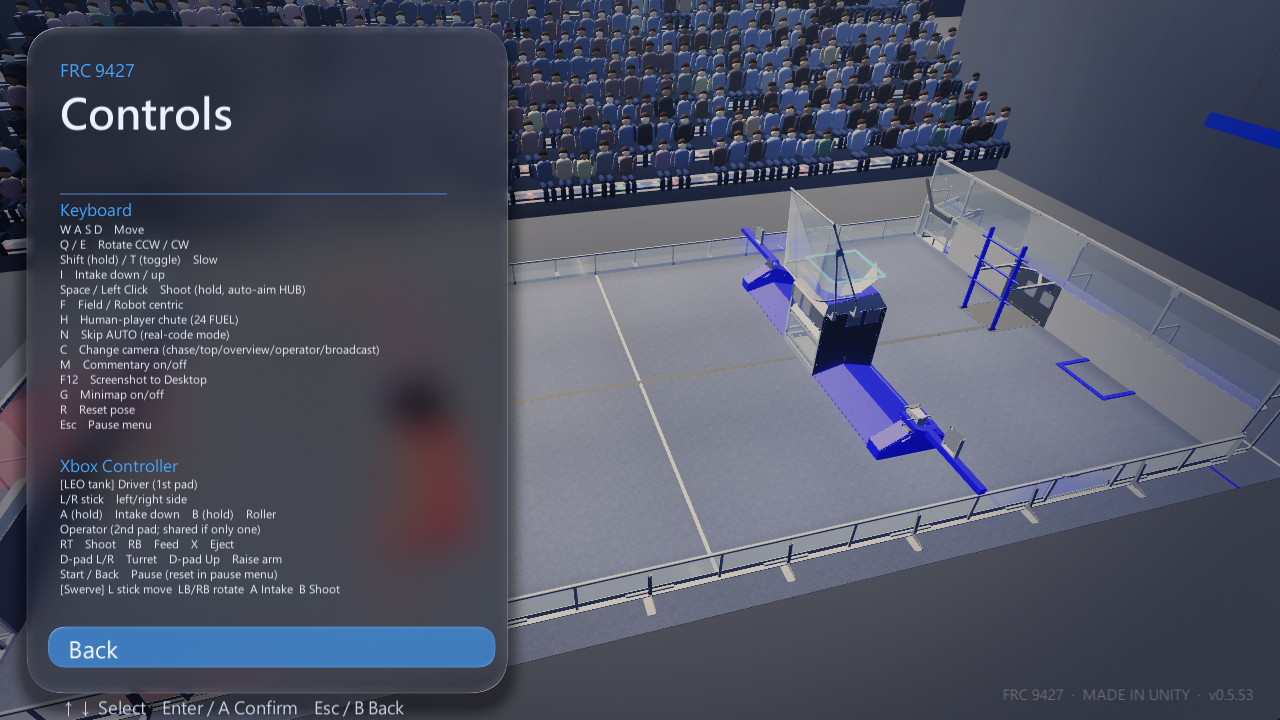
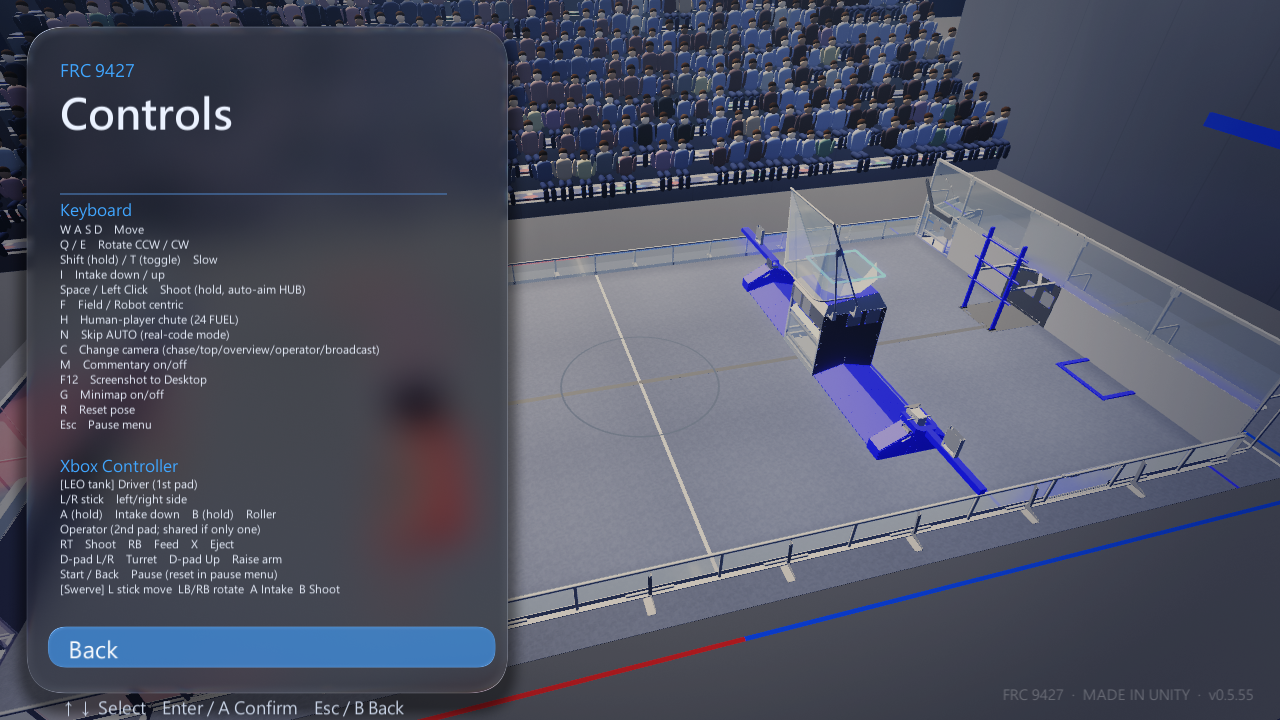
v0.5.55 floor accent strips

diff --git a/Assets/Scripts/Sim/FloorAccents.cs b/Assets/Scripts/Sim/FloorAccents.cs
@@ -1,0 +1,38 @@
+using UnityEngine;
+
+namespace FrcSim
+{
+    // 場地周圍的低調地燈(展廳質感):外圍一圈細隊色燈條 + 場中央細白環。亮度很低,只當氛圍,不干擾比賽判讀。
+    public static class FloorAccents
+    {
+        public static void Build(Transform parent, float L, float W)
+        {
+            var root = new GameObject("FloorAccents").transform; root.SetParent(parent, false);
+            var blue = Look.GlowMaterial(new Color(0.12f, 0.32f, 1f), 0.9f);
+            var red = Look.GlowMaterial(new Color(1f, 0.2f, 0.2f), 0.9f);
+            var white = Look.GlowMaterial(new Color(0.85f, 0.9f, 1f), 0.5f);
+            float m = 0.9f, t = 0.05f, y = 0.006f;   // 離場地牆外 0.9m
+            void Strip(string n, Vector3 c, Vector3 size, Material mt)
+            {
+                var g = GameObject.CreatePrimitive(PrimitiveType.Cube); Object.Destroy(g.GetComponent<Collider>()); g.name = n; g.transform.SetParent(root, false);
+                g.transform.position = c; g.transform.localScale = size; var r = g.GetComponent<Renderer>(); r.sharedMaterial = mt; r.shadowCastingMode = UnityEngine.Rendering.ShadowCastingMode.Off; r.receiveShadows = false;
+            }
+            float x0 = -m, x1 = L + m, z0 = -m, z1 = W + m, xm = L / 2f;
+            // 長邊:左半藍、右半紅
+            foreach (float z in new[] { z0, z1 })
+            {
+                Strip("EdgeB", new Vector3((x0 + xm) / 2f, y, z), new Vector3(xm - x0, 0.01f, t), blue);
+                Strip("EdgeR", new Vector3((xm + x1) / 2f, y, z), new Vector3(x1 - xm, 0.01f, t), red);
+            }
+            // 短邊
+            Strip("EndB", new Vector3(x0, y, W / 2f), new Vector3(t, 0.01f, z1 - z0), blue);
+            Strip("EndR", new Vector3(x1, y, W / 2f), new Vector3(t, 0.01f, z1 - z0), red);
+            // 場中央細環
+            var ring = new GameObject("CenterRing"); ring.transform.SetParent(root, false);
+            var lr = ring.AddComponent<LineRenderer>(); lr.useWorldSpace = true; lr.loop = true; lr.widthMultiplier = 0.035f; lr.sharedMaterial = white; lr.shadowCastingMode = UnityEngine.Rendering.ShadowCastingMode.Off; lr.alignment = LineAlignment.TransformZ;
+            int n = 72; lr.positionCount = n; float rad = 1.4f;
+            for (int i = 0; i < n; i++) { float a = i / (float)n * Mathf.PI * 2f; lr.SetPosition(i, new Vector3(L / 2f + Mathf.Cos(a) * rad, 0.012f, W / 2f + Mathf.Sin(a) * rad)); }
+            ring.transform.rotation = Quaternion.Euler(90f, 0f, 0f);
+        }
+    }
+}

diff --git a/Assets/Scripts/Sim/ArenaBuilder.cs b/Assets/Scripts/Sim/ArenaBuilder.cs
@@ -69,7 +69,8 @@ namespace FrcSim
             for (int i = 0; i < 6; i++)
                 for (int j = 0; j < 3; j++)
                     Box($"Light{i}_{j}", new Vector3(2f + i * ((L - 4f) / 5f), 18.1f, 1.2f + j * (W - 2.4f) / 2f), new Vector3(3.5f, 0.15f, 0.5f), lightMat, false);
-            { var lp = new System.Collections.Generic.List<Vector3>(); for (int i = 0; i < 6; i++) for (int j = 0; j < 3; j++) lp.Add(new Vector3(2f + i * ((L - 4f) / 5f), 18.0f, 1.2f + j * (W - 2.4f) / 2f)); LightBeams.Build(root, lp, 0.4f); }   // 燈下淡淡光柱
+            { var lp = new System.Collections.Generic.List<Vector3>(); for (int i = 0; i < 6; i++) for (int j = 0; j < 3; j++) lp.Add(new Vector3(2f + i * ((L - 4f) / 5f), 18.0f, 1.2f + j * (W - 2.4f) / 2f)); LightBeams.Build(root, lp, 0.4f); }
+            FloorAccents.Build(root, L, W);   // 燈下淡淡光柱
         }
 
         public static void Clear()
@@ -79,4 +80,5 @@ namespace FrcSim
         }
     }
 }
+
 

diff --git a/Assets/Scripts/Sim/ModelLibrary.cs b/Assets/Scripts/Sim/ModelLibrary.cs
@@ -32,7 +32,7 @@ namespace FrcSim
         static string TeamLabel(string n)
         {
             n = n.Replace("_", " ");
-            switch (n.Split(' ')[0]) { case "971": return "971 Mixtape"; case "604": return "604 Quixilver"; case "3928": return "3928 Neutrino"; case "48": return "48 E.L.I.T.E."; case "1678": return "1678 Citrus Circuits"; case "2910": return "2910 Jack in the Bot"; case "6328": return "6328 Mech. Advantage"; case "967": return "967"; }
+            switch (n.Split(' ')[0]) { case "971": return "971 Mixtape"; case "604": return "604 Quixilver"; case "3928": return "3928 Neutrino"; case "48": return "48 E.L.I.T.E."; case "1678": return "1678 Citrus Circuits"; case "2910": return "2910 Jack in the Bot"; case "6328": return "6328 Mech. Advantage"; case "967": return "967"; case "4930": return "4930 Electric Mayhem"; }
             return n;
         }
 
@@ -76,6 +76,7 @@ namespace FrcSim
         }
     }
 }
+
 
 
 

diff --git a/Assets/Scripts/Sim/UpdateCheck.cs b/Assets/Scripts/Sim/UpdateCheck.cs
@@ -17,7 +17,7 @@ namespace FrcSim
     //   找不到差異包(或失敗)時退回「開啟下載頁」,讓使用者手動下載完整版。
     public class UpdateCheck : MonoBehaviour
     {
-        public const string Current = "0.5.53";
+        public const string Current = "0.5.55";
         const string Repo = "frc9427liu-tech/FRC9427-SimApp";
         const string ReleasesApi = "https://api.github.com/repos/" + Repo + "/releases?per_page=30";
         public const string Page = "https://github.com/" + Repo + "/releases/latest";
@@ -235,6 +235,8 @@ Start-Process -FilePath $Exe -WorkingDirectory $Dst
 ";
     }
 }
+
+
 
 
 
